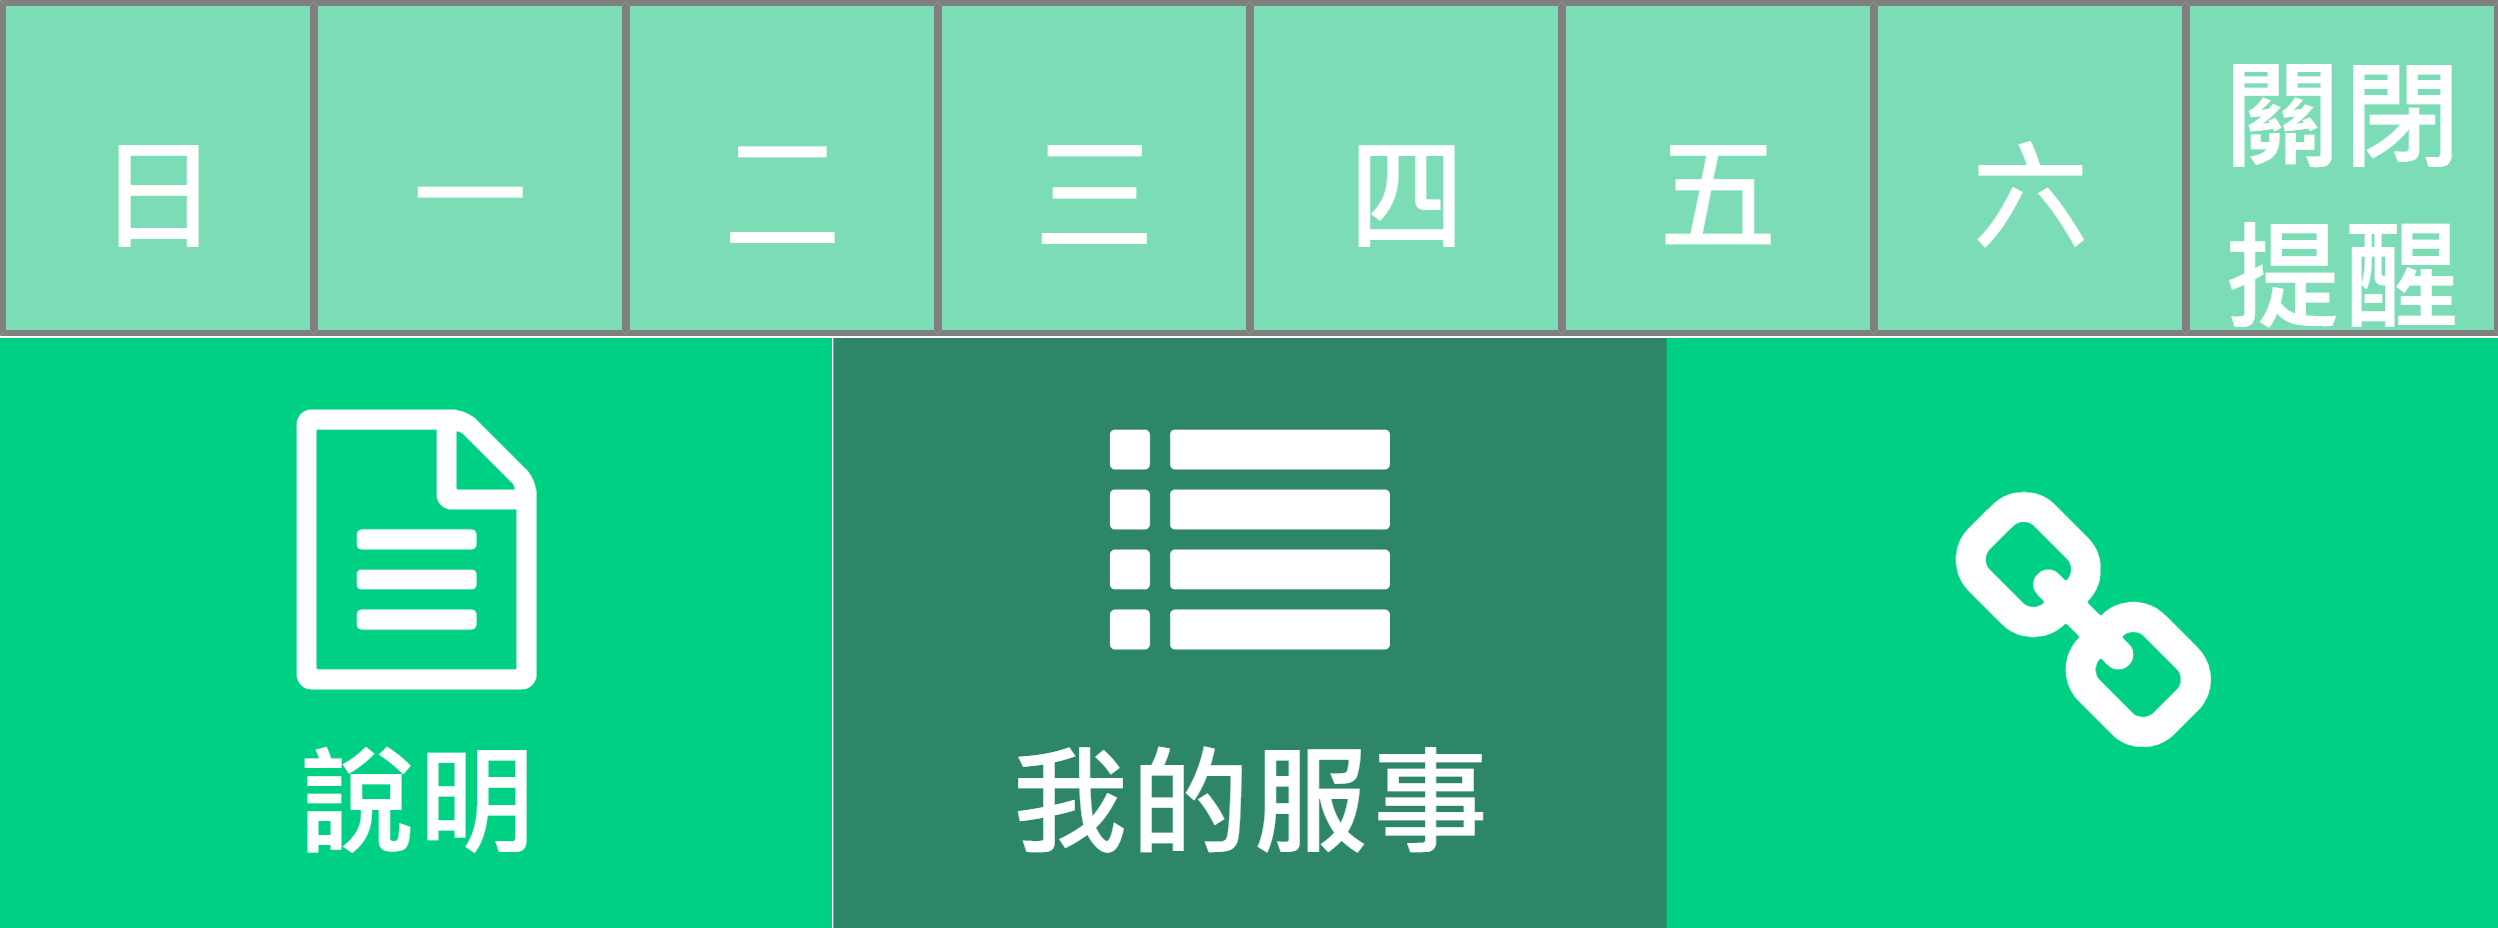
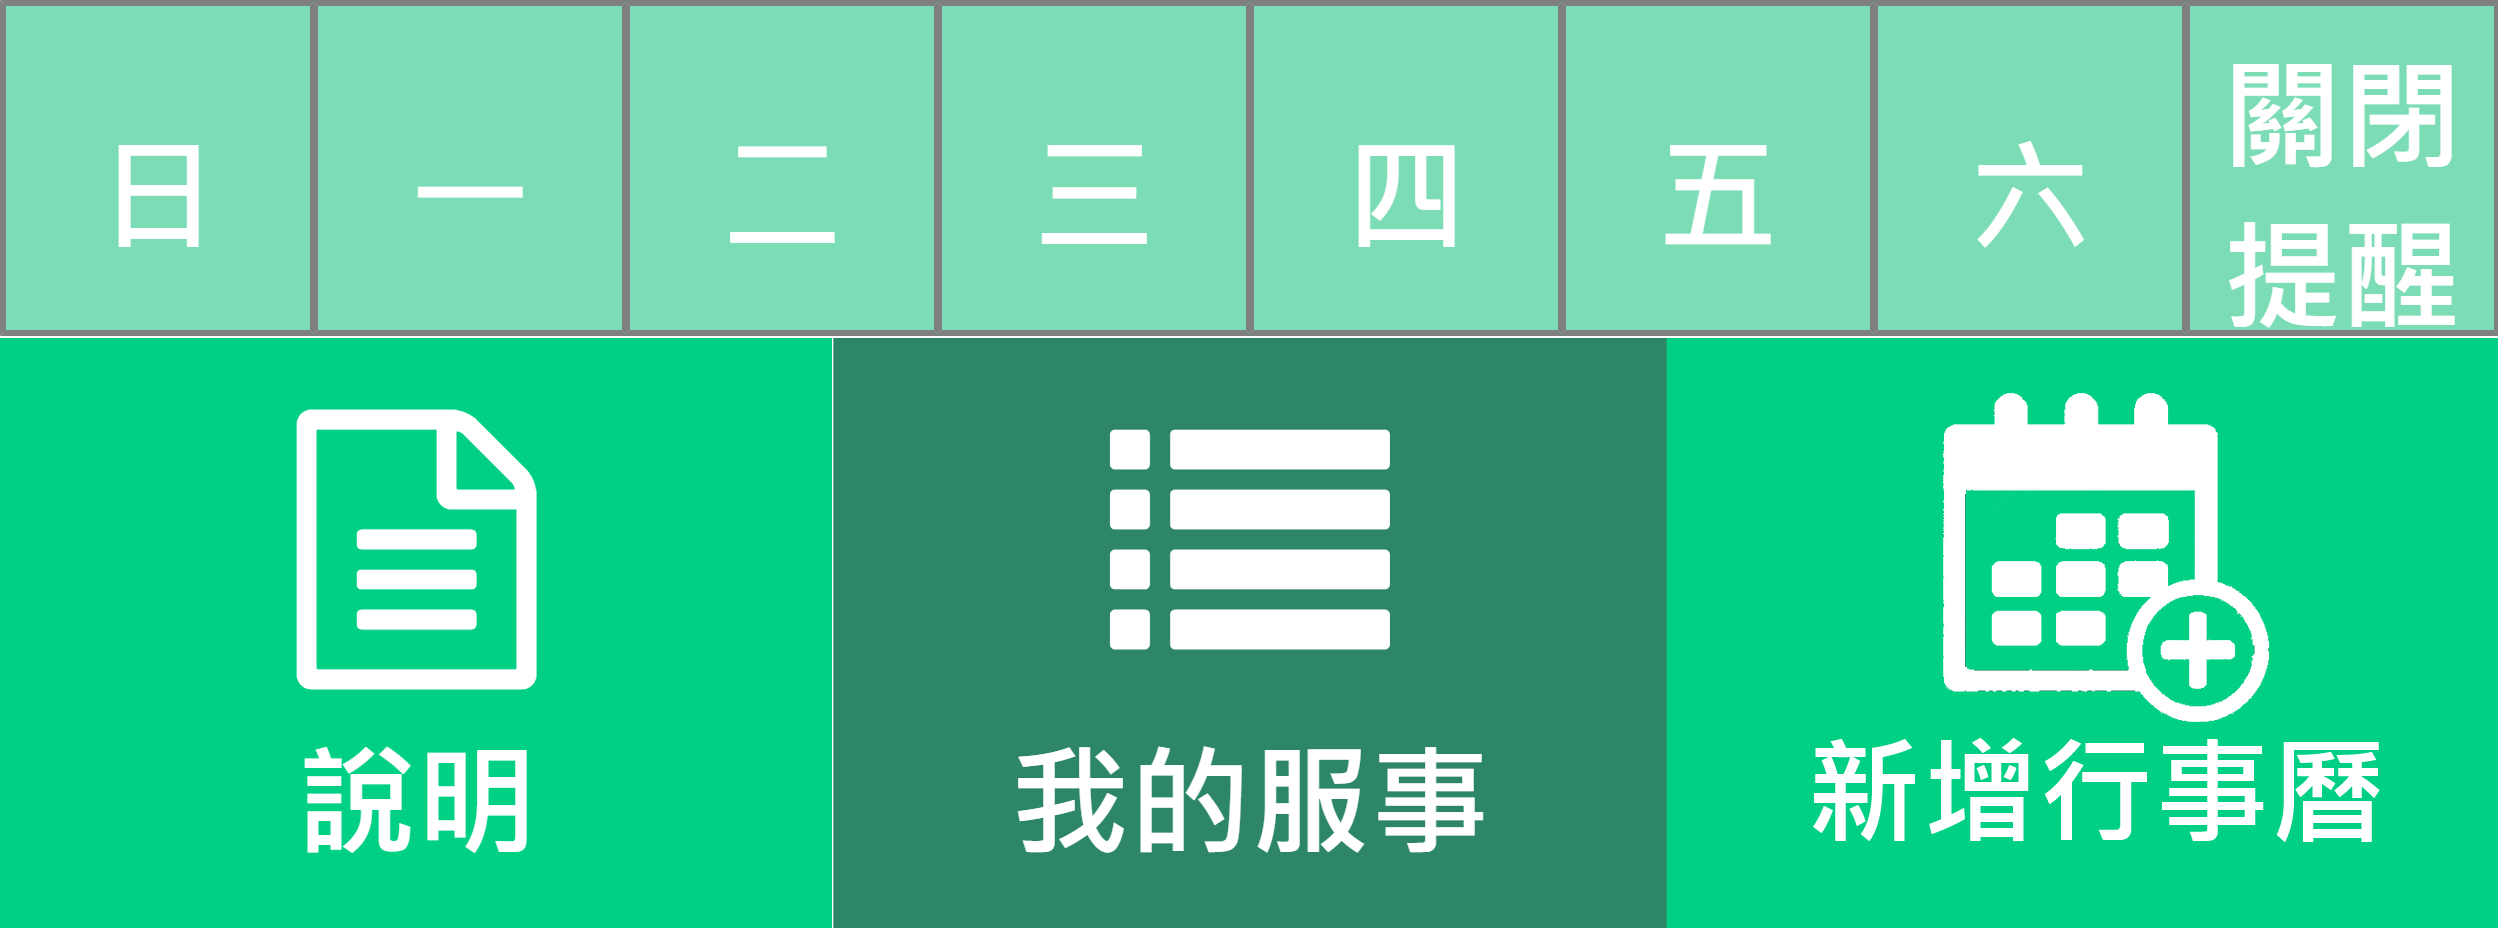
新增行事曆功能，檢查接下來的服事並回傳相應訊息，更新 richmenu 設定以提供更多選項

Changed region(s): [[0.7182, 0.4062, 0.968, 0.9062]]

diff --git a/set_menu.py b/set_menu.py
@@ -1,73 +1,100 @@
+from linebot import LineBotApi, WebhookParser
+from django.conf import settings
+import json
+import requests
 import os
 import django
-os.environ.setdefault("DJANGO_SETTINGS_MODULE","api.settings")
+os.environ.setdefault("DJANGO_SETTINGS_MODULE", "api.settings")
 django.setup()
 
-import requests
-import json
-from django.conf import settings
-from linebot import LineBotApi, WebhookParser
 
 # 設定 headers，輸入你的 Access Token，記得前方要加上「Bearer 」( 有一個空白 )
 access_token = settings.LINE_CHANNEL_ACCESS_TOKEN
-headers = {'Authorization':f"Bearer {access_token}",'Content-Type':'application/json'}
+headers = {'Authorization': f"Bearer {access_token}",
+           'Content-Type': 'application/json'}
 
 body = {
     'size': {'width': 2498, 'height': 928},   # 設定尺寸
     'selected': 'true',                        # 預設是否顯示
     'name': 'Richmenu demo',                   # 選單名稱
     'chatBarText': '請以週報.群組記事本的為主',            # 選單在 LINE 顯示的標題
-    'areas':[                                  # 選單內容
+    'areas': [                                  # 選單內容
         {
-          'bounds': {'x': 0, 'y': 0, 'width': 314, 'height': 332}, # 選單位置與大小
-          'action': {'type': 'message', 'text': '小天使, 請禮拜日提醒我'}                # 點擊後傳送文字
+            'bounds': {'x': 0, 'y': 0, 'width': 314, 'height': 332},  # 選單位置與大小
+            # 點擊後傳送文字
+            'action': {'type': 'message', 'text': '小天使, 請禮拜日提醒我'}
         },
         {
-          'bounds': {'x': 315, 'y': 0, 'width': 309, 'height': 329}, # 選單位置與大小
-          'action': {'type': 'message', 'text': '小天使, 請禮拜一提醒我'}                # 點擊後傳送文字
+            # 選單位置與大小
+            'bounds': {'x': 315, 'y': 0, 'width': 309, 'height': 329},
+            # 點擊後傳送文字
+            'action': {'type': 'message', 'text': '小天使, 請禮拜一提醒我'}
         },
         {
-          'bounds': {'x': 633, 'y': 0, 'width': 309, 'height': 329}, # 選單位置與大小
-          'action': {'type': 'message', 'text': '小天使, 請禮拜二提醒我'}                # 點擊後傳送文字
+            # 選單位置與大小
+            'bounds': {'x': 633, 'y': 0, 'width': 309, 'height': 329},
+            # 點擊後傳送文字
+            'action': {'type': 'message', 'text': '小天使, 請禮拜二提醒我'}
         },
         {
-          'bounds': {'x': 941, 'y': 0, 'width': 309, 'height': 329}, # 選單位置與大小
-          'action': {'type': 'message', 'text': '小天使, 請禮拜三提醒我'}                # 點擊後傳送文字
+            # 選單位置與大小
+            'bounds': {'x': 941, 'y': 0, 'width': 309, 'height': 329},
+            # 點擊後傳送文字
+            'action': {'type': 'message', 'text': '小天使, 請禮拜三提醒我'}
         },
         {
-          'bounds': {'x': 1257, 'y': 0, 'width': 309, 'height': 329}, # 選單位置與大小
-          'action': {'type': 'message', 'text': '小天使, 請禮拜四提醒我'}                # 點擊後傳送文字
+            # 選單位置與大小
+            'bounds': {'x': 1257, 'y': 0, 'width': 309, 'height': 329},
+            # 點擊後傳送文字
+            'action': {'type': 'message', 'text': '小天使, 請禮拜四提醒我'}
         },
         {
-          'bounds': {'x': 1567, 'y': 0, 'width': 309, 'height': 329}, # 選單位置與大小
-          'action': {'type': 'message', 'text': '小天使, 請禮拜五提醒我'}                # 點擊後傳送文字
+            # 選單位置與大小
+            'bounds': {'x': 1567, 'y': 0, 'width': 309, 'height': 329},
+            # 點擊後傳送文字
+            'action': {'type': 'message', 'text': '小天使, 請禮拜五提醒我'}
         },
         {
-          'bounds': {'x': 1882, 'y': 0, 'width': 309, 'height': 329}, # 選單位置與大小
-          'action': {'type': 'message', 'text': '小天使, 請禮拜六提醒我'}                # 點擊後傳送文字
+            # 選單位置與大小
+            'bounds': {'x': 1882, 'y': 0, 'width': 309, 'height': 329},
+            # 點擊後傳送文字
+            'action': {'type': 'message', 'text': '小天使, 請禮拜六提醒我'}
         },
         {
-          'bounds': {'x': 2190, 'y': 0, 'width': 309, 'height': 329}, # 選單位置與大小
-          'action': {'type': 'message', 'text': '小天使, 請先不用提醒我'}                # 點擊後傳送文字
+            # 選單位置與大小
+            'bounds': {'x': 2190, 'y': 0, 'width': 309, 'height': 329},
+            # 點擊後傳送文字
+            'action': {'type': 'message', 'text': '小天使, 請先不用提醒我'}
         },
         {
-          'bounds': {'x': 837, 'y': 341, 'width': 832, 'height': 583}, # 選單位置與大小
-          'action': {'type': 'message', 'text': '小天使, 請問我接下來服事有哪些?'}                # 點擊後傳送文字
+            # 選單位置與大小
+            'bounds': {'x': 0, 'y': 338, 'width': 836, 'height': 590},
+            # 點擊後傳送文字
+            'action': {'type': 'message', 'text': '小天使, 請問這怎麼用?'}
         },
         {
-          'bounds': {'x': 0, 'y': 338, 'width': 836, 'height': 590}, # 選單位置與大小
-          'action': {'type': 'message', 'text': '小天使, 請問這怎麼用?'}                # 點擊後傳送文字
+            # 選單位置與大小
+            'bounds': {'x': 837, 'y': 341, 'width': 832, 'height': 583},
+            # 點擊後傳送文字
+            'action': {'type': 'message', 'text': '小天使, 請問我接下來服事有哪些?'}
+        },
+
+        {
+            # 選單位置與大小
+            'bounds': {'x': 1661, 'y': 338, 'width': 836, 'height': 590},
+            # 點擊後傳送文字
+            'action': {'type': 'message', 'text': '小天使, 我要把接下來的服事加入行事曆！'}
         },
 
 
     ]
-  }
+}
 
 
 req = requests.request('POST', 'https://api.line.me/v2/bot/richmenu',
-                      headers=headers,data=json.dumps(body).encode('utf-8'))
+                       headers=headers, data=json.dumps(body).encode('utf-8'))
 if req.status_code != 200:
-    print('Step 1 error',req.text)
+    print('Step 1 error', req.text)
     exit()
 rich_menu_id = req.json()['richMenuId']
 
@@ -92,12 +119,11 @@ else:
     print(response.text)
 
 
+headers = {'Authorization': f'Bearer {access_token}'}
 
-
-headers = {'Authorization':f'Bearer {access_token}'}
-
-req = requests.request('POST', f'https://api.line.me/v2/bot/user/all/richmenu/{rich_menu_id}', headers=headers)
+req = requests.request(
+    'POST', f'https://api.line.me/v2/bot/user/all/richmenu/{rich_menu_id}', headers=headers)
 if req.status_code != 200:
-    print('Step 3 error',req.text)
+    print('Step 3 error', req.text)
     exit()
 print(req.text)

diff --git a/example/views.py b/example/views.py
@@ -89,9 +89,16 @@ def lineCallback(request):
         else:
             send_msg = f'您接下來暫時沒有其他服事呦！'+line_lib.emoji("10008E")
     elif (msg == '小天使, 我要把接下來的服事加入行事曆！'):
-        # 這裡可以加入生成並回傳 .ics 檔案的邏輯
-        send_msg = "以下連結可以下載您的服事行事曆檔案，打開後可以幫你把服事匯進您的行事曆喔！請點擊連結下載：\n http://gsheet-work-notify-v2.vercel.app/api/export_ics?user_id=" + \
-            data['user_id']
+        # 檢查是否有接下來的服事
+        now_year = datetime.now().strftime('%Y')
+        user_work_name_list = googleSheet('user').getWorkNames(data['user_id'])
+        work_list = googleSheet(now_year).getNextWorks(user_work_name_list)
+
+        if not work_list or len(work_list) == 0:
+            send_msg = f'沒有您接下來的服事喔！'+line_lib.emoji("10008E")
+        else:
+            send_msg = "以下連結可以下載您的服事行事曆檔案，打開後可以幫你把服事匯進您的行事曆喔！請點擊連結下載：\n http://gsheet-work-notify-v2.vercel.app/api/export_ics?user_id=" + \
+                data['user_id']
     elif (msg == '小天使, 請問這怎麼用?'):
         notify_user_name = data['user_name']
         send_msg = f"嗨 {notify_user_name} ~ 您可以點選下方選單日~六設定通知日，若不想接收通知請點選「關閉提醒」。\n\n"
@@ -151,6 +158,10 @@ def export_ics(request):
     # 取得今年的服事列表
     now_year = datetime.now().strftime('%Y')
     work_list = googleSheet(now_year).getNextWorks(user_work_name_list)
+
+    # 檢查是否有服事
+    if not work_list or len(work_list) == 0:
+        return HttpResponse('沒有您接下來的服事喔', content_type='text/plain; charset=utf-8')
 
     # 建立 iCalendar
     cal = Calendar()
